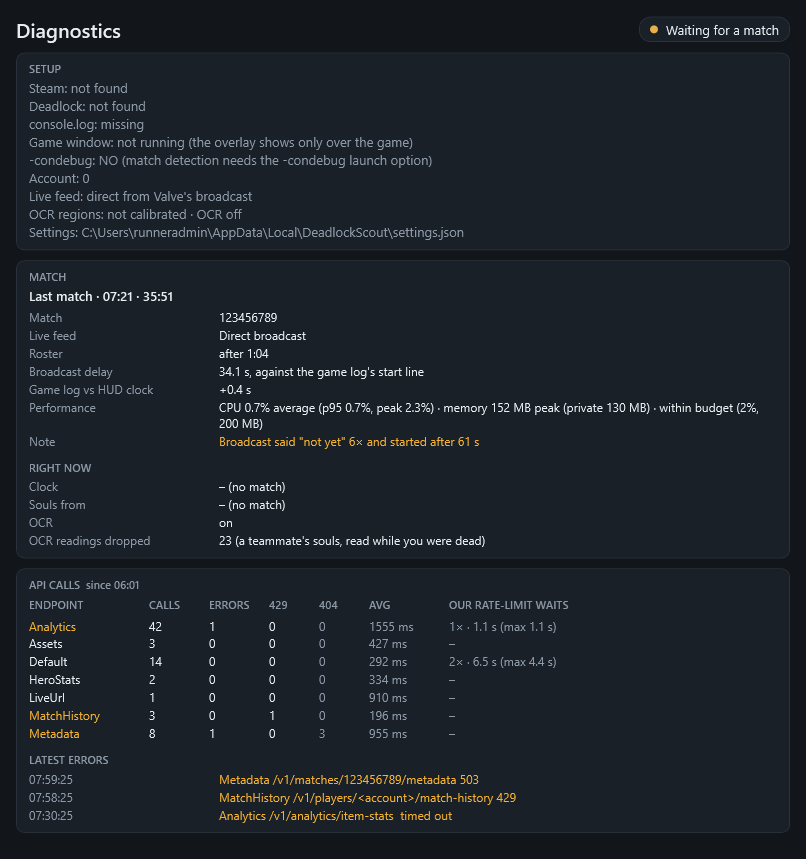
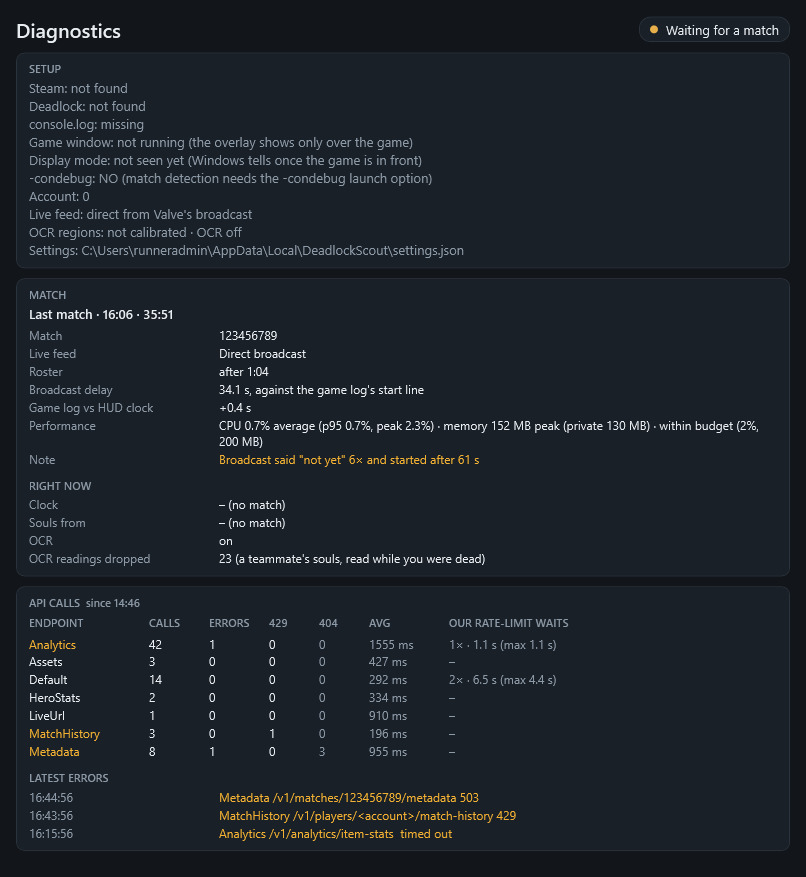
Fullscreen warning: ask Windows, not the game's stale video.txt (#82)
* Fullscreen warning: ask Windows, not the game's stale video.txt

Deadlock no longer keeps video.txt up to date: the player's file was last written on July 15 although the display
mode had changed since, quitting from the menu did not write it, and players report the same on the forums. A stale
file kept the fullscreen warning silent whatever the game really did.

- While the game is in front, the overlay asks Windows (SHQueryUserNotificationState, the state Windows uses to
  hold back notifications; a question about the screen, never to the game): an exclusive-mode Direct3D program is
  exclusive fullscreen; otherwise a window filling the screen is borderless and a smaller one windowed. When Windows
  only says "a program fills the screen", a saved "Fullscreen" still counts, so the warning errs towards showing.
  The file is read only when Windows cannot say. Pure decision in SetupChecks.LiveDisplayMode, tested.
- Diagnostics' setup lines get "Display mode: borderless (from Windows, with the game in front)".
- The setup wizard's display check says it reads Deadlock's saved settings.
- Verification note 35, the reworked display-mode item and Player check 3; troubleshooting wording.

Claude-Session: https://claude.ai/code/session_01LSDkBn23Na5vMSKWLtGadZ

* Update app screenshots

---------

diff --git a/src/DeadlockScout.Core/Setup/SetupChecks.cs b/src/DeadlockScout.Core/Setup/SetupChecks.cs
@@ -42,18 +42,60 @@ public static class SetupChecks
             : new("Match detection", CheckState.Warning, "Find Steam and your account first, then add -condebug.");
 
     /// <summary>
+    /// What Windows says about the foreground program (<c>SHQueryUserNotificationState</c>, the state Windows itself uses
+    /// to hold back notifications), reduced to what the display check needs. Asks Windows, never the game.
+    /// </summary>
+    public enum ShellDisplay
+    {
+        /// <summary>The call failed or was not made.</summary>
+        Unknown,
+        /// <summary>QUNS_RUNNING_D3D_FULL_SCREEN: an exclusive-mode Direct3D program owns the screen.</summary>
+        Exclusive,
+        /// <summary>QUNS_BUSY or QUNS_APP: a program fills the screen, borderless or exclusive (Windows does not say which).</summary>
+        FullScreenApp,
+        /// <summary>Anything else: nothing fills the screen.</summary>
+        Desktop,
+    }
+
+    /// <summary>The <c>QUERY_USER_NOTIFICATION_STATE</c> value as a <see cref="ShellDisplay"/>.</summary>
+    public static ShellDisplay ShellDisplayFrom(int? state) => state switch
+    {
+        null => ShellDisplay.Unknown,
+        3 => ShellDisplay.Exclusive,       // QUNS_RUNNING_D3D_FULL_SCREEN
+        2 or 7 => ShellDisplay.FullScreenApp, // QUNS_BUSY, QUNS_APP
+        _ => ShellDisplay.Desktop,
+    };
+
+    /// <summary>
+    /// Deadlock's display mode as it is now. Deadlock no longer keeps <c>video.txt</c> up to date (a player's file was
+    /// months old while the game ran borderless, Oct 31, 2026, and players report the same on the forums), so while the
+    /// game is in front Windows decides: an exclusive-mode program means exclusive fullscreen; otherwise a window that
+    /// fills the screen is borderless and a smaller one windowed. When Windows says only that a program fills the screen,
+    /// a saved "Fullscreen" still counts, so the warning errs towards showing. UNVERIFIED: whether Deadlock's Vulkan
+    /// renderer in exclusive fullscreen reports as Direct3D; if not, it reads as a full-screen program. With the game in
+    /// the background, or no answer from Windows, the saved file is all there is.
+    /// </summary>
+    public static DisplayMode LiveDisplayMode(ShellDisplay shell, bool gameForeground, bool windowFillsScreen, DisplayMode saved)
+    {
+        if (!gameForeground || shell == ShellDisplay.Unknown) return saved;
+        if (shell == ShellDisplay.Exclusive) return DisplayMode.Fullscreen;
+        if (!windowFillsScreen) return DisplayMode.Windowed;
+        return shell == ShellDisplay.FullScreenApp && saved == DisplayMode.Fullscreen ? DisplayMode.Fullscreen : DisplayMode.Borderless;
+    }
+
+    /// <summary>
     /// Whether the overlay should warn about exclusive fullscreen when the game window fills the screen. A borderless
-    /// window fills the screen too, so the size alone cannot tell them apart: <c>video.txt</c> decides, and only an
-    /// unreadable file leaves the hint on.
+    /// window fills the screen too, so the size alone cannot tell them apart: <see cref="LiveDisplayMode"/> decides, and
+    /// only an unknown mode leaves the hint on.
     /// </summary>
     public static bool WarnFullscreen(DisplayMode mode, bool windowFillsScreen)
         => windowFillsScreen && mode is DisplayMode.Fullscreen or DisplayMode.Unknown;
 
     public static SetupCheck Display(DisplayMode mode) => mode switch
     {
-        DisplayMode.Borderless => new("Display mode", CheckState.Ok, "Deadlock runs borderless: the overlay can draw over it."),
-        DisplayMode.Windowed => new("Display mode", CheckState.Ok, "Deadlock runs in a window: the overlay follows it. Borderless (fullscreen windowed) fills the screen and works too."),
-        DisplayMode.Fullscreen => new("Display mode", CheckState.Missing, "Deadlock is in exclusive fullscreen, which hides every other window. In the game: Settings → Video → Display mode → Fullscreen windowed (borderless)."),
+        DisplayMode.Borderless => new("Display mode", CheckState.Ok, "Deadlock's saved settings say borderless: the overlay can draw over it. (Deadlock does not always keep that file current; while you play, the overlay asks Windows.)"),
+        DisplayMode.Windowed => new("Display mode", CheckState.Ok, "Deadlock's saved settings say windowed: the overlay follows the window. Borderless (fullscreen windowed) fills the screen and works too."),
+        DisplayMode.Fullscreen => new("Display mode", CheckState.Missing, "Deadlock's saved settings say exclusive fullscreen, which hides every other window. In the game: Settings → Video → Display mode → Fullscreen windowed (borderless)."),
         _ => new("Display mode", CheckState.Warning, "Deadlock's video settings were not found (run the game once). Set Display mode to Fullscreen windowed (borderless) in its video settings."),
     };
 

diff --git a/src/DeadlockScout.App/Overlay/OverlayWindow.xaml.cs b/src/DeadlockScout.App/Overlay/OverlayWindow.xaml.cs
@@ -389,7 +389,7 @@ public partial class OverlayWindow : Window
         bool show = !_userHidden && (Preview || (o.Enabled && gameOnScreen && game.Foreground)); // the hotkey still hides a preview
         if (show)
         {
-            if (gameOnScreen) FollowGameWindow(game.Bounds, warnFullscreen: !Preview);
+            if (gameOnScreen) FollowGameWindow(game.Bounds, warnFullscreen: !Preview, gameForeground: game.Foreground);
             else FollowGameWindow(PrimaryScreen(), warnFullscreen: false);
             if (!IsVisible) Show();
         }
@@ -426,7 +426,7 @@ public partial class OverlayWindow : Window
         return new NativeMethods.RECT { Left = s.Left, Top = s.Top, Right = s.Right, Bottom = s.Bottom };
     }
 
-    private void FollowGameWindow(NativeMethods.RECT bounds, bool warnFullscreen = true)
+    private void FollowGameWindow(NativeMethods.RECT bounds, bool warnFullscreen = true, bool gameForeground = false)
     {
         var source = PresentationSource.FromVisual(this);
         double dpiX = source?.CompositionTarget?.TransformToDevice.M11 ?? 1.0;
@@ -440,10 +440,22 @@ public partial class OverlayWindow : Window
         ApplyLayout();
 
         // Exclusive fullscreen covers the screen with no border and hides every topmost window; warn once. Borderless fills
-        // the screen too, so the game's own video.txt says which it is.
-        var screen = SystemParameters.PrimaryScreenHeight;
-        if (warnFullscreen && !_warnedFullscreen
-            && SetupChecks.WarnFullscreen(VideoConfig.ReadFile(_paths.DeadlockPath), Math.Abs(Height - screen) < 2 && bounds.Top == 0))
+        // the screen too: with the game in front Windows says which it is; the game's video.txt, which Deadlock no longer
+        // keeps up to date, only when Windows cannot.
+        if (!warnFullscreen) return;
+        bool fills = Math.Abs(Height - SystemParameters.PrimaryScreenHeight) < 2 && bounds.Top == 0;
+        var shell = gameForeground ? SetupChecks.ShellDisplayFrom(NativeMethods.ShellNotificationState()) : SetupChecks.ShellDisplay.Unknown;
+        bool fromWindows = gameForeground && shell != SetupChecks.ShellDisplay.Unknown;
+        var saved = fromWindows && shell != SetupChecks.ShellDisplay.FullScreenApp ? DisplayMode.Unknown : VideoConfig.ReadFile(_paths.DeadlockPath);
+        var mode = SetupChecks.LiveDisplayMode(shell, gameForeground, fills, saved);
+        if (fromWindows)
+            _state.DisplaySeen = mode switch
+            {
+                DisplayMode.Fullscreen => "exclusive fullscreen: the overlay cannot show over it",
+                DisplayMode.Borderless => "borderless",
+                _ => "windowed",
+            } + " (from Windows, with the game in front)";
+        if (!_warnedFullscreen && SetupChecks.WarnFullscreen(mode, fills))
         {
             _warnedFullscreen = true;
             _state.Status.Warning = "If you cannot see the overlay, set Deadlock to borderless windowed mode; exclusive fullscreen hides external windows.";

diff --git a/tests/DeadlockScout.Tests/Core/SetupChecksTests.cs b/tests/DeadlockScout.Tests/Core/SetupChecksTests.cs
@@ -42,4 +42,37 @@ public class SetupChecksTests
         Assert.True(SetupChecks.WarnFullscreen(DisplayMode.Unknown, windowFillsScreen: true)); // no file: keep the hint
         Assert.False(SetupChecks.WarnFullscreen(DisplayMode.Fullscreen, windowFillsScreen: false));
     }
+
+    [Theory]
+    [InlineData(null, SetupChecks.ShellDisplay.Unknown)]
+    [InlineData(3, SetupChecks.ShellDisplay.Exclusive)]     // QUNS_RUNNING_D3D_FULL_SCREEN
+    [InlineData(2, SetupChecks.ShellDisplay.FullScreenApp)] // QUNS_BUSY
+    [InlineData(7, SetupChecks.ShellDisplay.FullScreenApp)] // QUNS_APP
+    [InlineData(5, SetupChecks.ShellDisplay.Desktop)]       // QUNS_ACCEPTS_NOTIFICATIONS
+    [InlineData(1, SetupChecks.ShellDisplay.Desktop)]       // QUNS_NOT_PRESENT
+    public void Windows_notification_state_maps_to_what_the_display_check_needs(int? state, SetupChecks.ShellDisplay expected)
+        => Assert.Equal(expected, SetupChecks.ShellDisplayFrom(state));
+
+    [Fact]
+    public void With_the_game_in_front_Windows_decides_over_a_stale_video_file()
+    {
+        // The player's case: video.txt months old and saying borderless.
+        Assert.Equal(DisplayMode.Fullscreen,
+            SetupChecks.LiveDisplayMode(SetupChecks.ShellDisplay.Exclusive, gameForeground: true, windowFillsScreen: true, DisplayMode.Borderless));
+        // And the other way round: an old "fullscreen" file while Windows sees nothing exclusive and no full-screen program.
+        Assert.Equal(DisplayMode.Borderless,
+            SetupChecks.LiveDisplayMode(SetupChecks.ShellDisplay.Desktop, true, true, DisplayMode.Fullscreen));
+        Assert.Equal(DisplayMode.Windowed,
+            SetupChecks.LiveDisplayMode(SetupChecks.ShellDisplay.FullScreenApp, true, windowFillsScreen: false, DisplayMode.Fullscreen));
+        // Windows only says a program fills the screen: a saved "fullscreen" keeps the warning, anything else is borderless.
+        Assert.Equal(DisplayMode.Fullscreen,
+            SetupChecks.LiveDisplayMode(SetupChecks.ShellDisplay.FullScreenApp, true, true, DisplayMode.Fullscreen));
+        Assert.Equal(DisplayMode.Borderless,
+            SetupChecks.LiveDisplayMode(SetupChecks.ShellDisplay.FullScreenApp, true, true, DisplayMode.Unknown));
+        // The game behind another window, or no answer from Windows: the saved file is all there is.
+        Assert.Equal(DisplayMode.Borderless,
+            SetupChecks.LiveDisplayMode(SetupChecks.ShellDisplay.Exclusive, gameForeground: false, true, DisplayMode.Borderless));
+        Assert.Equal(DisplayMode.Unknown,
+            SetupChecks.LiveDisplayMode(SetupChecks.ShellDisplay.Unknown, true, true, DisplayMode.Unknown));
+    }
 }

diff --git a/src/DeadlockScout.App/MainWindow.xaml.cs b/src/DeadlockScout.App/MainWindow.xaml.cs
@@ -110,7 +110,7 @@ public partial class MainWindow : Window
         var game = _paths.DeadlockPath ?? "not found";
         var log = _paths.ConsoleLogPath;
         string condebug = _paths.HasCondebug ? "yes" : "NO (match detection needs the -condebug launch option)";
-        _state.Status.Detection = $"Steam: {steam}\nDeadlock: {game}\nconsole.log: {(log is not null && File.Exists(log) ? "present" : "missing")}\nGame window: {GameWindowStatus()}\n-condebug: {condebug}\nAccount: {_paths.AccountId}\nLive feed: {_settings.CurrentValue.Api.LiveSource switch { DeadlockScout.Core.Settings.LiveSource.SelfHosted => "self-hosted at " + _settings.CurrentValue.Api.LiveUrl, DeadlockScout.Core.Settings.LiveSource.Direct => "direct from Valve's broadcast", _ => "hosted (api.deadlock-api.com)" }}\nOCR regions: {OcrRegionSummary()}\nSettings: {_settings.Path}";
+        _state.Status.Detection = $"Steam: {steam}\nDeadlock: {game}\nconsole.log: {(log is not null && File.Exists(log) ? "present" : "missing")}\nGame window: {GameWindowStatus()}\nDisplay mode: {(_state.DisplaySeen is { Length: > 0 } seen ? seen : "not seen yet (Windows tells once the game is in front)")}\n-condebug: {condebug}\nAccount: {_paths.AccountId}\nLive feed: {_settings.CurrentValue.Api.LiveSource switch { DeadlockScout.Core.Settings.LiveSource.SelfHosted => "self-hosted at " + _settings.CurrentValue.Api.LiveUrl, DeadlockScout.Core.Settings.LiveSource.Direct => "direct from Valve's broadcast", _ => "hosted (api.deadlock-api.com)" }}\nOCR regions: {OcrRegionSummary()}\nSettings: {_settings.Path}";
         if (_settings.LastError is { } err) _state.Status.Warning = err;
     }
 

diff --git a/src/DeadlockScout.App/Interop/NativeMethods.cs b/src/DeadlockScout.App/Interop/NativeMethods.cs
@@ -80,6 +80,18 @@ public static partial class NativeMethods
     [DllImport("user32.dll")] public static extern IntPtr SetWinEventHook(uint eventMin, uint eventMax, IntPtr module, WinEventProc proc, uint process, uint thread, uint flags);
     [DllImport("user32.dll")] [return: MarshalAs(UnmanagedType.Bool)] public static extern bool UnhookWinEvent(IntPtr hook);
 
+    /// <summary>
+    /// Windows' own view of the foreground program (QUERY_USER_NOTIFICATION_STATE: 2 busy, 3 exclusive Direct3D, 5
+    /// accepts notifications, ...), or null when the call fails. A question to Windows about the screen, not to the game.
+    /// </summary>
+    public static int? ShellNotificationState()
+    {
+        try { return SHQueryUserNotificationState(out int state) == 0 ? state : null; }
+        catch (Exception ex) when (ex is DllNotFoundException or EntryPointNotFoundException) { return null; }
+    }
+
+    [LibraryImport("shell32.dll")] private static partial int SHQueryUserNotificationState(out int state);
+
     public static string WindowTitle(IntPtr hWnd)
     {
         Span<char> buf = stackalloc char[256];

diff --git a/src/DeadlockScout.App/ViewModels/OverlayState.cs b/src/DeadlockScout.App/ViewModels/OverlayState.cs
@@ -24,6 +24,11 @@ namespace DeadlockScout.App.ViewModels;
 public sealed class OverlayState
 {
     public StatusViewModel Status { get; } = new();
+    /// <summary>
+    /// The game's display mode as last seen with the game in front ("borderless (from Windows)"), for the setup lines;
+    /// empty until then.
+    /// </summary>
+    public string DisplaySeen { get; set; } = "";
     public PaceStripViewModel Pace { get; } = new();
     public ScoutListViewModel Scout { get; } = new();
     public EnemyPaceViewModel EnemyPace { get; } = new();

diff --git a/docs/verification/api.md b/docs/verification/api.md
@@ -252,6 +252,15 @@ checked against a real match; see "Still open" at the end.
     creates, 48,000 updates over 4,799 ticks, game time reaching 10:53. The schema endpoint still describes a
     replay (an older match), not the live broadcast. The Direct feed on build 6835 could not be checked from here
     (Valve's relay does not resolve from the test container); a player's `PatchCheck --replay` covers it.
+35. **Deadlock no longer keeps `video.txt` up to date** (Oct 31, 2026, the player's PC). The file was last written on
+    July 15 although the display mode had been changed since, and quitting from the menu did not write it; no other
+    video file exists under the game's `cfg` folder or Steam's `userdata`. Players report the same on the forums
+    (video settings "not written to video.txt or video.txt.bak", fullscreen selected but the game behaving as
+    borderless). Its lines, from when it was last written in borderless: `setting.fullscreen` "0",
+    `setting.coop_fullscreen` "1", `setting.nowindowborder` "1", which `VideoConfig` reads as borderless. Because a
+    stale file kept the fullscreen warning silent whatever the game did, the overlay now asks Windows while the game is
+    in front (`SHQueryUserNotificationState`: 3 is an exclusive-mode Direct3D program) and uses the file only when
+    Windows cannot say.
 
 ## Hosted live feed (added Oct 27, 2026)
 
@@ -311,8 +320,9 @@ What only a player's PC can confirm, in the order that costs least. Each closes 
    "breakables" should land near 2:00, 3:00, 5:00 and 8:00. Send the section (it has no names or ids); the spawn
    defaults are corrected from it.
 2. ~~Party tags~~ and ~~enemy build tendencies~~: done from the match's own records (note 32); nothing to do.
-3. **Display mode.** Copy `game/citadel/cfg/video.txt` once in borderless windowed and once in exclusive fullscreen
-   (only the `setting.fullscreen` and `setting.nowindowborder` lines are needed).
+3. **Display mode.** With the game in front in borderless, then (briefly) in exclusive fullscreen, open Diagnostics
+   and read its "Display mode" line: it should say borderless, then exclusive fullscreen, "from Windows" both times.
+   (`video.txt` itself turned out stale, note 35, so copying it no longer tells anything.)
 4. **Steam content log.** Turn automatic updates off and on for Deadlock in Steam, then copy the new lines at the end
    of `<Steam>\logs\content_log.txt` (they name the app id, not you).
 5. **Diagnostics.** After a lobby, Diagnostics → Copy diagnostics: no 429s means the scouting calls (parties, counter
@@ -355,9 +365,11 @@ What only a player's PC can confirm, in the order that costs least. Each closes 
   and check the jumps in its "Jungle" section at 2:00, 3:00, 5:00 and 8:00; if it shows no denizens, the broadcast
   does not carry neutral camps and camp respawns cannot be tracked from it.
 - [x] The urn schedule: 10:00, then every 5:00 (note 23).
-- [ ] Deadlock's `game/citadel/cfg/video.txt`: `setting.fullscreen` "1" is exclusive fullscreen (players' forum posts);
-  `setting.nowindowborder` telling borderless from a framed window is taken from other Source 2 games. Check a real
-  file in each display mode and replace the synthetic fixture `Fixtures/steam/video.txt`.
+- [ ] The display mode as Windows reports it (`SHQueryUserNotificationState`) in each of Deadlock's modes: exclusive
+  fullscreen should read 3 (Direct3D exclusive), borderless 2 (busy) or 5. UNVERIFIED for Deadlock's Vulkan renderer.
+  `video.txt` is now only the fallback: the player's file was months old while the game ran (note 35). Its borderless
+  shape is confirmed by a real file (`fullscreen` "0", `coop_fullscreen` "1", `nowindowborder` "1"); exclusive
+  fullscreen's is still the players' forum reading (`fullscreen` "1").
 - [x] Party tags on a live lobby: the two parties that queued together in the player's match are exactly the two the
       app tagged (note 32).
 - [x] Enemy build tendencies on a live lobby: all eight predicted items of the two enemies with a prediction were

diff --git a/docs/troubleshooting.md b/docs/troubleshooting.md
@@ -25,8 +25,8 @@ The app learns about your match from the game's own log, which Deadlock only wri
 ## The overlay does not show over the game
 
 - **Deadlock is in exclusive fullscreen.** Nothing can draw over a game in exclusive fullscreen, so the app does not
-  try. In Deadlock: Settings → Video → Display mode → **Fullscreen windowed (borderless)**. The app warns you when it
-  can tell from the game's video settings.
+  try. In Deadlock: Settings → Video → Display mode → **Fullscreen windowed (borderless)**. The app warns you when
+  Windows reports the game in exclusive fullscreen, and Diagnostics shows the mode it last saw ("Display mode").
 - **You hid it.** Ctrl+Shift+O hides and shows the whole overlay.
 - **A panel is missing.** Panels can be turned off one by one in Settings → Overlay, and the lobby panels (scout list,
   lane card) show and hide with Ctrl+Shift+L. **Layout preset → Full** brings every panel back.
